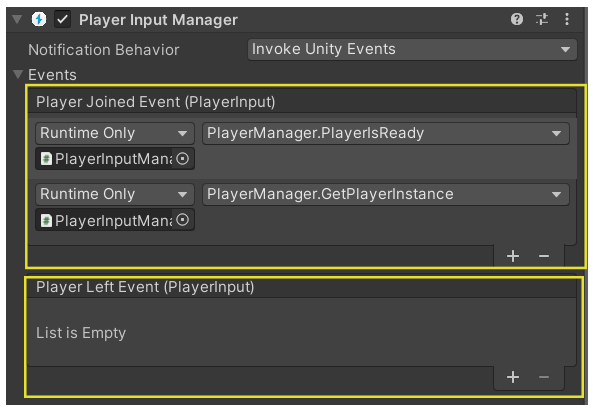
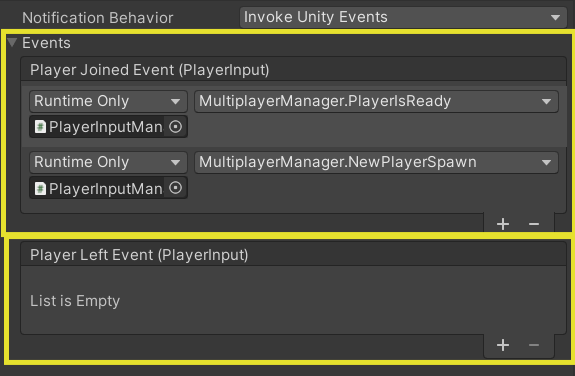
MultiplayerManager Doc
Correction (Demo Scene + Script)

diff --git a/Multiplayer/Manager/MultiplayerManager.cs b/Multiplayer/Manager/MultiplayerManager.cs
@@ -150,7 +150,7 @@ public class MultiplayerManager : MonoBehaviour
     // Look for each player when someone is ready
     public void PlayerIsReady()
     {
-        if(_pManager.playerCount == 1 && !_player1IsReady)
+        if (_pManager.playerCount == 1 && !_player1IsReady)
         {
             _player1IsReady = true;
 
@@ -158,7 +158,7 @@ public class MultiplayerManager : MonoBehaviour
             _imageCharacters[_pManager.playerCount - 1].enabled = true;
             _imageCharacters[_pManager.playerCount - 1].sprite = _characters[_pManager.playerCount - 1];
         }
-        else if(_pManager.playerCount == 2 && !_player2IsReady)
+        else if (_pManager.playerCount == 2 && !_player2IsReady)
         {
             _player2IsReady = true;
 
@@ -173,8 +173,6 @@ public class MultiplayerManager : MonoBehaviour
     {
         _pManager.joinAction.action.Disable();
 
-
-
         _gameStartTimeScreen.SetActive(true);
         _joiningScreen.SetActive(false);
 
@@ -188,8 +186,11 @@ public class MultiplayerManager : MonoBehaviour
         }
     }
 
-    // Puts players on the field
-    public void GetPlayerInstance(PlayerInput pInput)
+    /// <summary>
+    /// Spawn players on the scene
+    /// </summary>
+    /// <param name="pInput"> This PlayerInput is specific to the player who has just joined the game </param>
+    public void NewPlayerSpawn(PlayerInput pInput)
     {
         if (_pManager.playerCount == 1)
         {

diff --git a/Multiplayer/Manager/README.md b/Multiplayer/Manager/README.md
@@ -8,12 +8,9 @@
 ---
 
 ## ***Role***
-This script is there to create a local multiplayer in the game.
-
-Its use is based on the PlayerInputManager.
-
-The current script system uses the playerCount that joined the game.
-
+This script is there to create a local multiplayer in the game. </br>
+Its use is based on the PlayerInputManager. </br>
+The current script system uses the playerCount that joined the game. </br>
 Until all players join the game, most of the game’s scripts will remain disabled and the game will not start.
 
 ---
@@ -24,24 +21,33 @@ Until all players join the game, most of the game’s scripts will remain disabl
 Here, the PlayerInputManager component is the central unit of the system:
 1. It manages the entry and exit of players in the game. And it has a player counter which will allow to check the number of players in the  game and to define the order of the players,
 3. It instantiates a character prefab when a player join.
+</br></br>
 
 #### **1.1 Entry/Exit of players & Numbers players**
 Players' entries and exits are based on __Unity Events__.
 
 ![PlayerInputManager Unity Event](./Docs~/PlayerInputManager_UnityEvent.png "PlayerInputManager Unity Event")
 
-When a player will join, an event will be called -> __Player Joined Event__.
+When a player will join, an event will be called -> __Player Joined Event__. <br/>
+In our system, this event will call 2 methods:
+- *PlayerIsReady* -> will diplay in game that the player who has just joined is ready
+- *NewPlayerSpawn* -> Spawns the prefab instance in the scene according spawn points.
 
 ![PlayerInputManager Notification Behavior](./Docs~/PlayerInputManager_UnityEventJoin.png "PlayerInputManager Notification Behavior")
-
+</br></br>
 This event is called when you activate a specific input that is specified on the component.
 
 ![PlayerInputManager Action Join](./Docs~/PlayerInputManager_ActionJoin.png "PlayerInputManager Action Join")
 
-In our system, this event will call 2 methods:
-- *PlayerIsReady* -> will diplay in game that the player who has just joined is ready
-- *GetPlayerInstance* -> Places the prefab instance in the scene
+#### **1.1.1 PlayerIsReady**
+This function will tell the system that the player who has just joined is ready.</br>
+It will then show it on the screen (see 3.Joining screen & Timer before game starts).
 
+#### **1.1.2 NewPlayerSpawn**
+This method will place the new player in the scene on a spawn point.
+
+
+</br></br>
 
 #### **1.2 Instiante a prefab Player**
 In the PlayerInputManager, we refer to a prefab "Player" which will be instantized each time a player joins the game.
